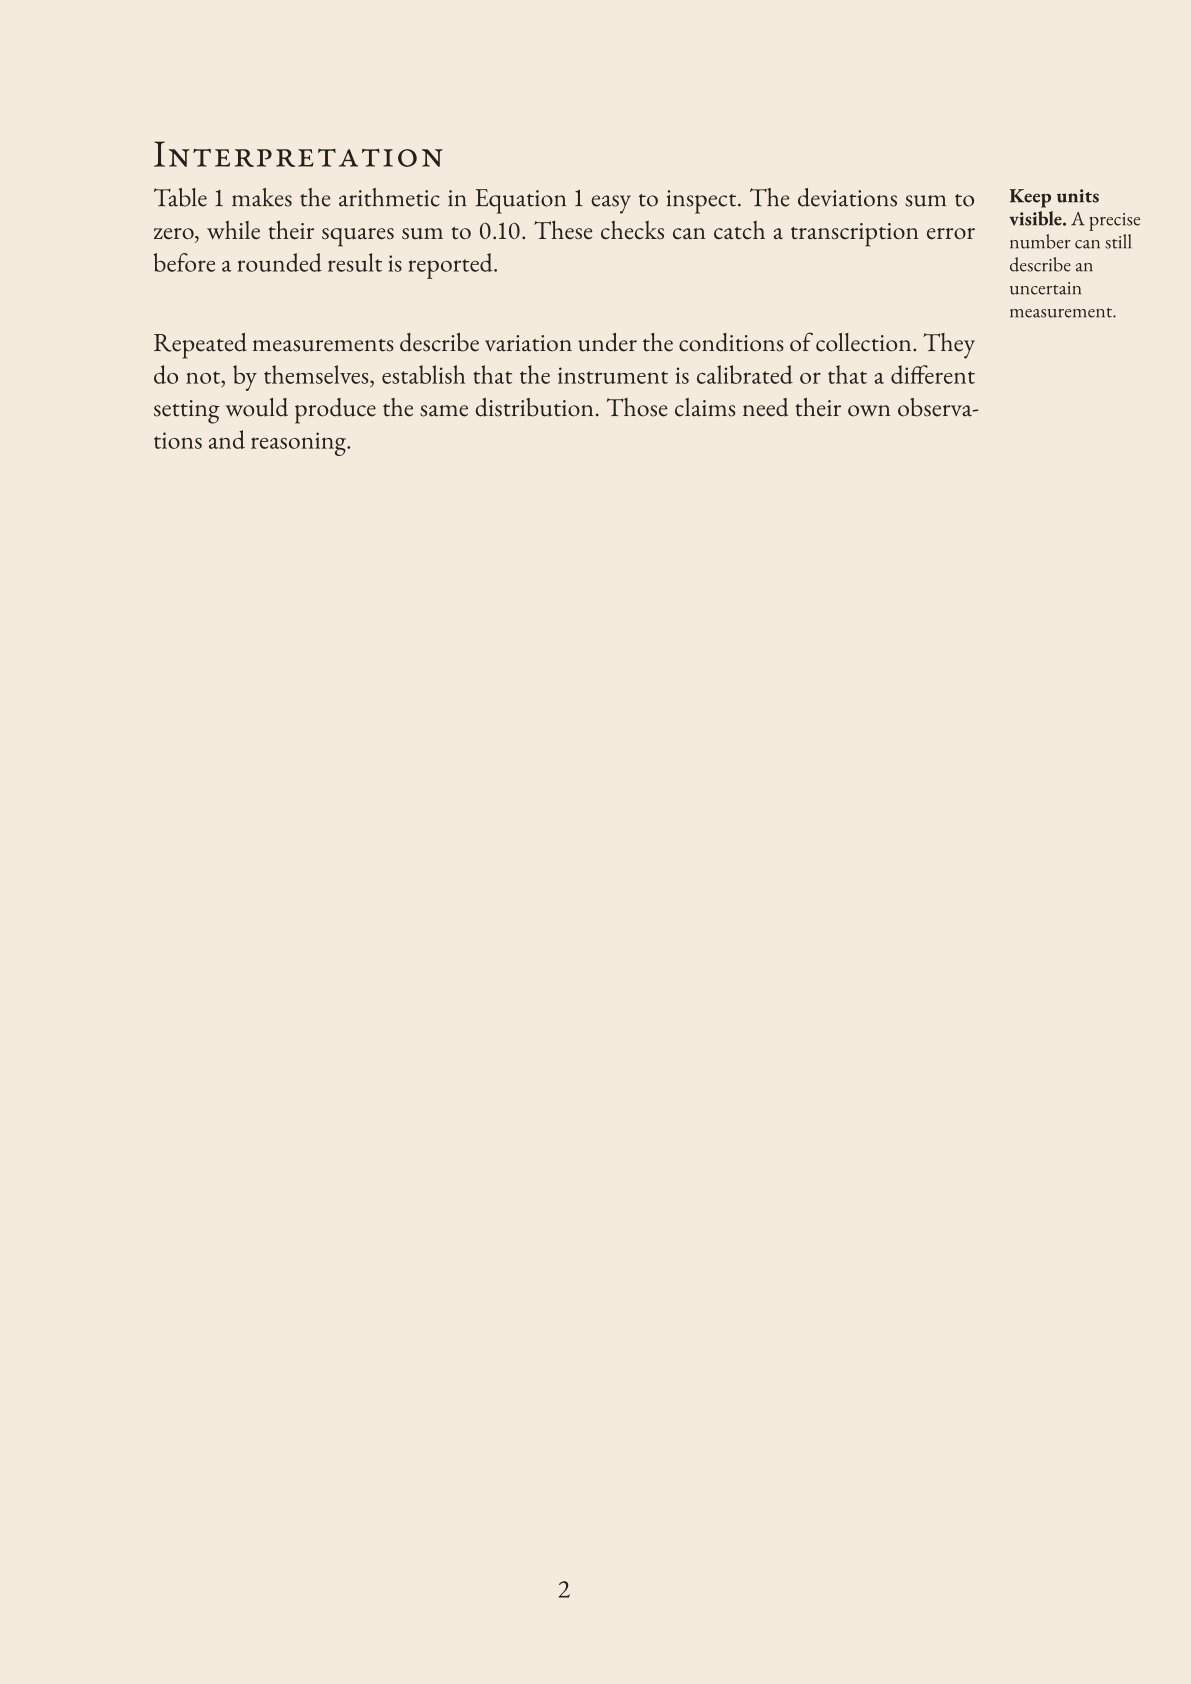
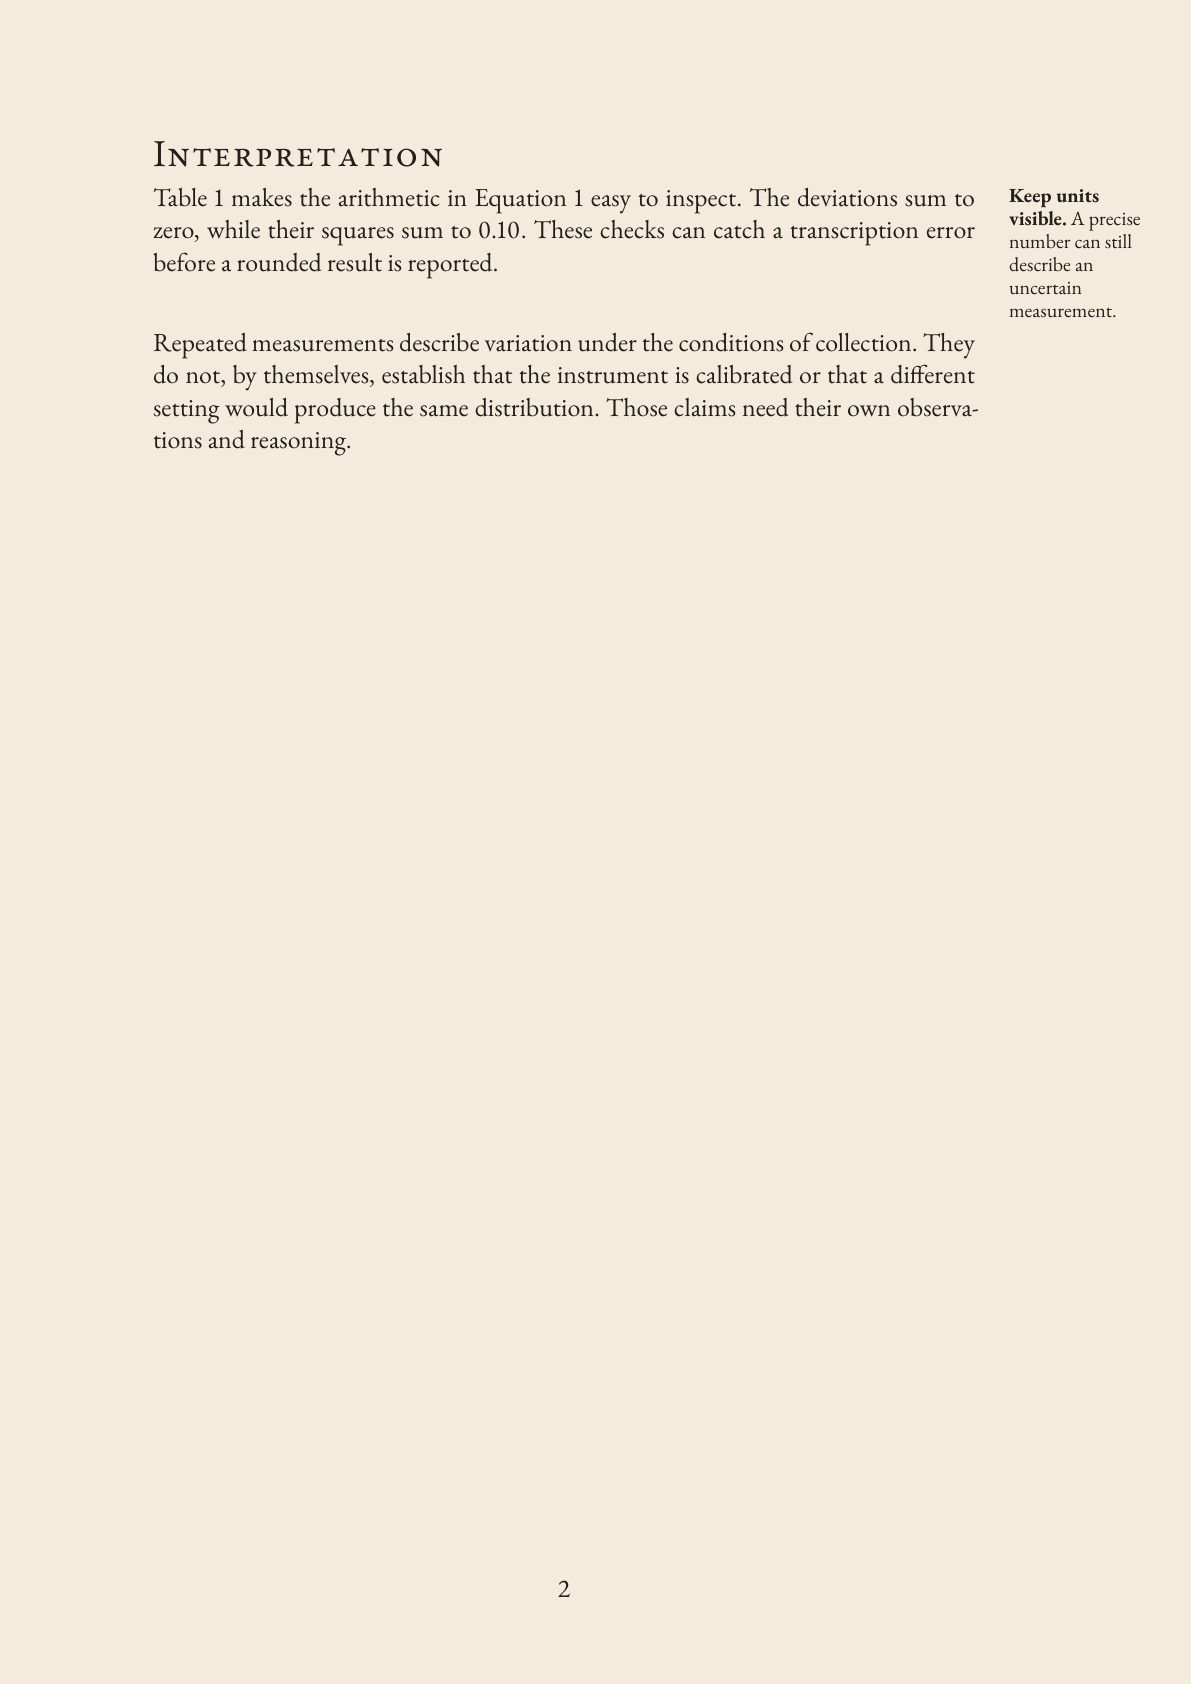
Add torn-paper emphasis blocks for 0.3.0

diff --git a/README.md b/README.md
@@ -2,7 +2,7 @@
 # sepia-memo
 
 Research memos with cream paper, Garamond text and mathematics, drop capitals,
-and margin notes. Requires Typst 0.15.0 or newer.
+margin notes, and torn-paper emphasis blocks. Requires Typst 0.15.0 or newer.
 
 Available on [Typst Universe](https://typst.app/universe/package/sepia-memo/).
 
@@ -23,7 +23,7 @@ and body. The complete example below is the same file; both rendered pages follo
 ```typ
 // SPDX-License-Identifier: MIT-0
 // Copyright (c) 2026 Chen Gao
-#import "@preview/sepia-memo:0.2.0": memo, memo-note
+#import "@preview/sepia-memo:0.3.0": memo, memo-note, memo-inset
 #import "@preview/droplet:0.3.1": dropcap
 
 #show: memo.with(
@@ -39,13 +39,17 @@ and body. The complete example below is the same file; both rendered pages follo
 = Purpose
 
 #dropcap(height: 3, gap: 4pt)[
-A measurement is easier to interpret when its units, repetition, and variation
-are recorded together. This note uses five invented observations to show how a
-short calculation can be reported alongside the information needed to check it.
-The values illustrate the layout; they are not evidence from an experiment.
+  A measurement is easier to interpret when its units, repetition, and variation
+  are recorded together. Five invented observations illustrate the arithmetic and
+  layout of a short note. They are not evidence from an experiment.
 ]
 
 = Calculation
+
+#memo-inset(title: [Working assumption])[
+  The observations share the same units and collection procedure. Their variation
+  describes these measurements, not the uncertainty of every possible experiment.
+]
 
 Let $x_i$ denote observation $i$ and let $n$ be the number of observations. The
 sample mean and the sample standard deviation are
@@ -60,6 +64,7 @@ The standard deviation is rounded to two decimal places; the calculation uses
 the observations as shown.#footnote[The divisor $n - 1$ defines the usual sample
   variance. Here it equals four.]
 
+#block(breakable: false)[
 #figure(
   table(
     columns: (1fr, 1fr, 1fr),
@@ -77,6 +82,7 @@ the observations as shown.#footnote[The divisor $n - 1$ defines the usual sample
   caption: [Invented observations, in arbitrary units. Deviations are measured
     from the sample mean.],
 ) <tab-observations>
+]
 
 = Interpretation
 
@@ -95,7 +101,7 @@ that a different setting would produce the same distribution. Those claims
 need their own observations and reasoning.
 ```
 
-**Page 1: drop capital, equations, table, and footnote.**
+**Page 1: drop capital, torn-paper block, equations, table, and footnote.**
 
 ![The starter rendered with the default Garamond fonts, page 1 of 2](thumbnail.png)
 
@@ -106,7 +112,7 @@ need their own observations and reasoning.
 Create and watch a memo with:
 
 ```sh
-typst init @preview/sepia-memo:0.2.0 my-memo
+typst init @preview/sepia-memo:0.3.0 my-memo
 typst watch my-memo/main.typ my-memo/main.pdf
 ```
 
@@ -131,6 +137,10 @@ For fonts embedded in the Typst CLI, set `font: "Libertinus Serif"` and
 
 - `memo-note(note)[paragraph]`: one short paragraph with a right-margin note.
   Use at the top level with the standard margins; the pair stays on one page.
+- `memo-inset(title: [Assumption])[content]`: a torn-paper emphasis block.
+  Use at the top level inside `memo`; it can contain prose, equations, and tables
+  and continue across pages. The title is optional. Tape placement varies by block
+  and stays stable when recompiling the same document.
 - `printer-rule()`: import it from sepia-memo for a three-part divider.
   Its `ink` option defaults to `rgb("#231F1A")`.
 - The starter's three-line drop cap comes from [droplet](https://typst.app/universe/package/droplet/).
@@ -158,7 +168,7 @@ defines the file boundaries and links to complete terms.
 | Included files | License |
 | --- | --- |
 | `lib.typ`, `thumbnail.png`, `preview-page-2.png` | [CC BY-SA 4.0](licenses/CC-BY-SA-4.0.txt) |
-| `template/main.typ`, `README.md`, `typst.toml`, `.gitignore` | [MIT-0](licenses/MIT-0.txt) |
+| `template/main.typ`, `README.md`, `typst.toml`, `CONTEXT.md`, `tests/*`, `.gitignore` | [MIT-0](licenses/MIT-0.txt) |
 
 | External requirement | License |
 | --- | --- |

diff --git a/CONTEXT.md b/CONTEXT.md
@@ -1,0 +1,15 @@
+<!-- SPDX-License-Identifier: MIT-0 -->
+# sepia-memo
+
+Vintage research memos containing prose, mathematics, and tables.
+
+## Language
+
+**Emphasis block (强调块)**:
+A passage with a clearly visible boundary that distinguishes a selected
+specification, assumption, or numerical check from the surrounding memo.
+It may contain prose, equations, and tables.
+_Avoid_: Column (a division of the page layout).
+
+**Pasted note (贴纸强调块)**:
+An emphasis block resembling a torn paper slip attached to the memo page.
